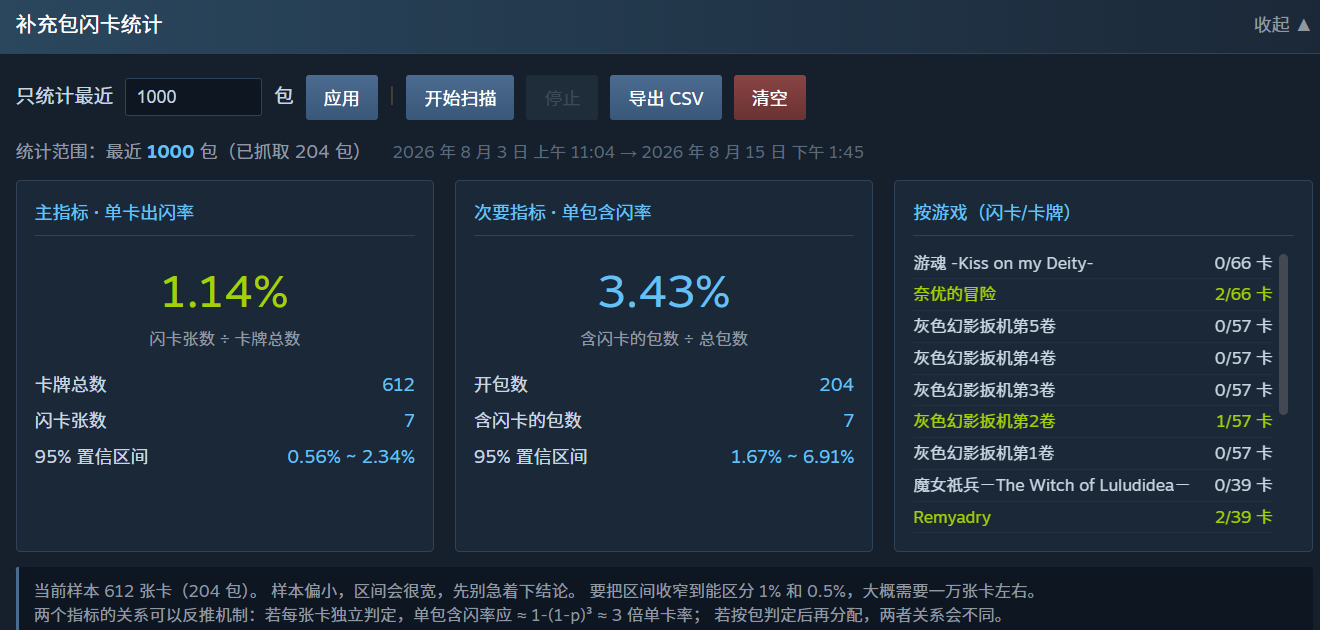
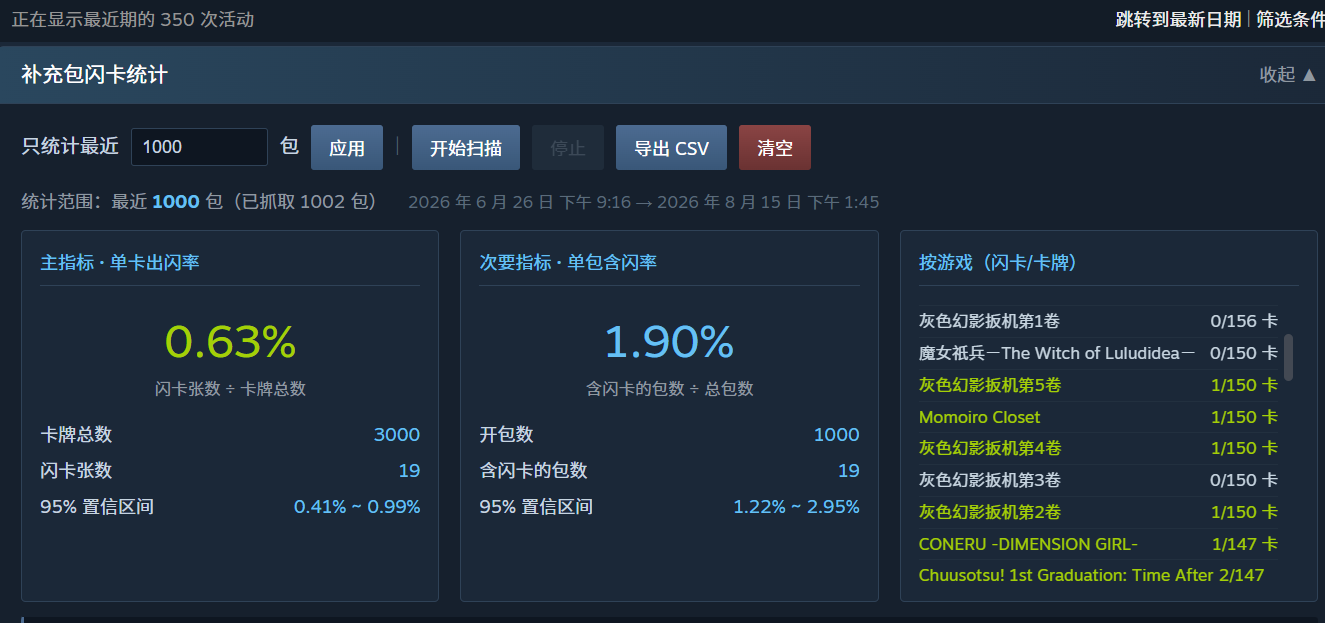
新增挂卡掉落闪卡统计

diff --git a/steam-foil-stats.user.js b/steam-foil-stats.user.js
@@ -1,7 +1,7 @@
 // ==UserScript==
 // @name         Steam 补充包闪卡统计
 // @namespace    https://github.com/Gravity2000
-// @version      1.1.1
+// @version      1.2.0
 // @updateURL    https://raw.githubusercontent.com/Gravity2000/steam-foil-stats/main/steam-foil-stats.user.js
 // @downloadURL  https://raw.githubusercontent.com/Gravity2000/steam-foil-stats/main/steam-foil-stats.user.js
 // @supportURL   https://github.com/Gravity2000/steam-foil-stats/issues
@@ -21,7 +21,9 @@
 
   const STORE_KEY = "foilstats_events_v1";
   const LIMIT_KEY = "foilstats_limit_v1";
-  const EVENT_KEYWORDS = ["已拆开补充包", "Unpacked booster pack", "拆開補充包"];
+  const BOOSTER_KEYWORDS = ["已拆开补充包", "Unpacked booster pack", "拆開補充包"];
+  const FARM_KEYWORDS = ["因游戏时数而获取", "因遊戲時數而獲取",
+                         "Earned", "Got an item drop", "游戏时数", "遊戲時數"];
   const FOIL_MARKERS = ["(闪亮)", "（闪亮）", "(閃亮)", "(Foil)"];
   const PAGE_DELAY_MS = 4000;
   const MAX_PAGES = 400;
@@ -43,7 +45,8 @@
   // ---------------- 工具 ----------------
   const sleep = ms => new Promise(r => setTimeout(r, ms));
   const isFoilName = n => FOIL_MARKERS.some(m => n.includes(m));
-  const isBoosterEvent = d => EVENT_KEYWORDS.some(k => d.includes(k));
+  const isBoosterEvent = d => BOOSTER_KEYWORDS.some(k => d.includes(k));
+  const isFarmEvent = d => !isBoosterEvent(d) && FARM_KEYWORDS.some(k => d.includes(k));
 
   function wilson(successes, total, z = 1.96) {
     if (total === 0) return [0, 0];
@@ -88,11 +91,16 @@
 
   // ---------------- 解析 ----------------
   function parseRow(row) {
-    const desc = row.querySelector(".tradehistory_event_description");
-    if (!desc || !isBoosterEvent(desc.textContent.trim())) return null;
+    const descEl = row.querySelector(".tradehistory_event_description");
+    if (!descEl) return null;
+    const desc = descEl.textContent.trim();
+
+    const booster = isBoosterEvent(desc);
+    const farm = isFarmEvent(desc);
+    if (!booster && !farm) return null;
 
     const groups = row.querySelectorAll(".tradehistory_items");
-    if (groups.length < 2) return null;
+    if (!groups.length) return null;
 
     let boosterName = "";
     let received = [];
@@ -107,18 +115,26 @@
     });
 
     if (!received.length) return null;
+    // 开包必须是「减补充包 + 加卡牌」的成对结构，缺一不算
+    if (booster && !boosterName) return null;
 
     const anyItem = row.querySelector("[id^='history']");
     const id = anyItem
       ? anyItem.id.replace(/^history/, "").replace(/_item\d+$/, "")
-      : `${boosterName}|${received.join(",")}|${Math.random()}`;
+      : `${desc}|${boosterName}|${received.join(",")}|${Math.random()}`;
 
     const dateEl = row.querySelector(".tradehistory_date");
     const time = dateEl ? dateEl.textContent.replace(/\s+/g, " ").trim() : "";
 
+    // 挂卡掉落没有「包」的概念，游戏名从卡牌本身取不到，标记为掉落
+    const game = booster
+      ? boosterName.replace(/\s*补充包\s*$/, "").replace(/\s*Booster Pack\s*$/i, "").trim()
+      : "";
+
     return {
       id, time, ts: parseTime(time),
-      game: boosterName.replace(/\s*补充包\s*$/, "").replace(/\s*Booster Pack\s*$/i, "").trim(),
+      kind: booster ? "booster" : "farm",
+      game,
       cards: received,
       foils: received.filter(isFoilName)
     };
@@ -276,24 +292,57 @@
   };
 
   // ---------------- 渲染 ----------------
+  // limit 只作用于补充包（因为「最近 N 包」按包计数）；
+  // 挂卡掉落按同一时间窗口截取，保证两个统计的时间范围一致，可比。
+  function splitScope(map, limit) {
+    const all = Object.values(map).sort((a, b) => (b.ts || 0) - (a.ts || 0));
+    const boosters = all.filter(e => e.kind !== "farm");
+    const picked = limit > 0 ? boosters.slice(0, limit) : boosters;
+    const cutoff = picked.length ? (picked[picked.length - 1].ts || 0) : 0;
+    const farms = limit > 0
+      ? all.filter(e => e.kind === "farm" && (e.ts || 0) >= cutoff)
+      : all.filter(e => e.kind === "farm");
+    return { boosters: picked, farms, totalBoosters: boosters.length,
+             totalFarms: all.length - boosters.length };
+  }
+
+  function tally(list) {
+    const cards = list.reduce((s, e) => s + e.cards.length, 0);
+    const foils = list.reduce((s, e) => s + e.foils.length, 0);
+    const [lo, hi] = wilson(foils, cards);
+    return { n: list.length, cards, foils, lo, hi,
+             rate: cards ? foils / cards * 100 : 0 };
+  }
+
+  const pct = v => (v * 100).toFixed(2) + "%";
+  const ci = t => t.cards ? pct(t.lo) + " ~ " + pct(t.hi) : "—";
+
   function render() {
     const map = loadEvents();
     const limit = loadLimit();
-    const total = Object.keys(map).length;
-    const evts = recentEvents(map, limit);
+    const { boosters, farms, totalBoosters, totalFarms } = splitScope(map, limit);
 
-    const packs = evts.length;
-    const cards = evts.reduce((s, e) => s + e.cards.length, 0);
-    const foilCards = evts.reduce((s, e) => s + e.foils.length, 0);
-    const foilPacks = evts.filter(e => e.foils.length > 0).length;
+    const B = tally(boosters);
+    const F = tally(farms);
 
-    const [lo, hi] = wilson(foilCards, cards);
-    const rate = cards ? foilCards / cards * 100 : 0;
-    const [plo, phi] = wilson(foilPacks, packs);
-    const packRate = packs ? foilPacks / packs * 100 : 0;
+    // 单包含闪率（仅补充包有意义）
+    const foilPacks = boosters.filter(e => e.foils.length > 0).length;
+    const [plo, phi] = wilson(foilPacks, B.n);
+    const packRate = B.n ? foilPacks / B.n * 100 : 0;
+
+    // 两个渠道的差异是否显著：置信区间不重叠即为显著
+    let cmp = "";
+    if (B.cards >= 100 && F.cards >= 100) {
+      const overlap = !(B.hi < F.lo || F.hi < B.lo);
+      cmp = overlap
+        ? `两者置信区间重叠，<b>目前看不出显著差异</b>，数据支持「两个渠道掉率相同」。`
+        : `两者置信区间不重叠，<b>差异显著</b> —— 补充包与挂卡的闪卡掉率可能不是同一个数。`;
+    } else {
+      cmp = "两边样本都超过 100 张卡之后，这里会给出差异是否显著的判断。";
+    }
 
     const byGame = {};
-    evts.forEach(e => {
+    boosters.forEach(e => {
       const g = byGame[e.game] || (byGame[e.game] = { n: 0, f: 0 });
       g.n += e.cards.length;
       g.f += e.foils.length;
@@ -302,47 +351,57 @@
       .map(([g, v]) => `<div class="${v.f ? "fs-hit" : ""}">
         <span>${g || "(未知)"}</span><span>${v.f}/${v.n} 卡</span></div>`).join("");
 
-    const newest = packs ? evts[0].time : "";
-    const oldest = packs ? evts[packs - 1].time : "";
+    const newest = B.n ? boosters[0].time : "";
+    const oldest = B.n ? boosters[B.n - 1].time : "";
 
     $("#fs-result").innerHTML = `
       <div class="fs-scope">
         统计范围：${limit > 0
-          ? `最近 <b>${limit}</b> 包（已抓取 ${total} 包）`
-          : `<b>全部</b> ${total} 包`}
-        ${packs ? `<span class="fs-range">　${oldest} → ${newest}</span>` : ""}
+          ? `最近 <b>${limit}</b> 包（已抓取 ${totalBoosters} 包 / ${totalFarms} 条挂卡掉落）`
+          : `<b>全部</b> ${totalBoosters} 包 / ${totalFarms} 条挂卡掉落`}
+        ${B.n ? `<span class="fs-range">　${oldest} → ${newest}</span>` : ""}
       </div>
       <div class="fs-grid">
         <div class="fs-card">
-          <h4>主指标 · 单卡出闪率</h4>
-          <div class="fs-big">${cards ? rate.toFixed(2) + "%" : "—"}</div>
+          <h4>补充包 · 单卡出闪率</h4>
+          <div class="fs-big">${B.cards ? B.rate.toFixed(2) + "%" : "—"}</div>
           <div class="fs-sub">闪卡张数 ÷ 卡牌总数</div>
-          <div class="fs-stat"><span>卡牌总数</span><b>${cards}</b></div>
-          <div class="fs-stat"><span>闪卡张数</span><b>${foilCards}</b></div>
-          <div class="fs-stat"><span>95% 置信区间</span>
-            <b>${cards ? (lo*100).toFixed(2) + "% ~ " + (hi*100).toFixed(2) + "%" : "—"}</b></div>
+          <div class="fs-stat"><span>开包数</span><b>${B.n}</b></div>
+          <div class="fs-stat"><span>卡牌总数</span><b>${B.cards}</b></div>
+          <div class="fs-stat"><span>闪卡张数</span><b>${B.foils}</b></div>
+          <div class="fs-stat"><span>95% 置信区间</span><b>${ci(B)}</b></div>
         </div>
         <div class="fs-card">
-          <h4>次要指标 · 单包含闪率</h4>
-          <div class="fs-big" style="color:#66c0f4">${packs ? packRate.toFixed(2) + "%" : "—"}</div>
+          <h4>挂卡掉落 · 单卡出闪率</h4>
+          <div class="fs-big" style="color:#f4a460">${F.cards ? F.rate.toFixed(2) + "%" : "—"}</div>
+          <div class="fs-sub">闪卡张数 ÷ 卡牌总数</div>
+          <div class="fs-stat"><span>掉落记录数</span><b>${F.n}</b></div>
+          <div class="fs-stat"><span>卡牌总数</span><b>${F.cards}</b></div>
+          <div class="fs-stat"><span>闪卡张数</span><b>${F.foils}</b></div>
+          <div class="fs-stat"><span>95% 置信区间</span><b>${ci(F)}</b></div>
+        </div>
+        <div class="fs-card">
+          <h4>补充包 · 单包含闪率</h4>
+          <div class="fs-big" style="color:#66c0f4">${B.n ? packRate.toFixed(2) + "%" : "—"}</div>
           <div class="fs-sub">含闪卡的包数 ÷ 总包数</div>
-          <div class="fs-stat"><span>开包数</span><b>${packs}</b></div>
           <div class="fs-stat"><span>含闪卡的包数</span><b>${foilPacks}</b></div>
           <div class="fs-stat"><span>95% 置信区间</span>
-            <b>${packs ? (plo*100).toFixed(2) + "% ~ " + (phi*100).toFixed(2) + "%" : "—"}</b></div>
+            <b>${B.n ? pct(plo) + " ~ " + pct(phi) : "—"}</b></div>
         </div>
         ${gameRows ? `<div class="fs-card">
-          <h4>按游戏（闪卡/卡牌）</h4>
+          <h4>补充包按游戏（闪卡/卡牌）</h4>
           <div class="fs-games">${gameRows}</div>
         </div>` : ""}
       </div>
-      ${cards ? `<div class="fs-note">
-        当前样本 ${cards} 张卡（${packs} 包）。
-        ${cards < 1500 ? "样本偏小，区间会很宽，先别急着下结论。"
-                       : "样本尚可，可以开始参考。"}
-        要把区间收窄到能区分 1% 和 0.5%，大概需要一万张卡左右。<br>
-        两个指标的关系可以反推机制：若每张卡独立判定，单包含闪率应 ≈ 1-(1-p)³ ≈ 3 倍单卡率；
-        若按包判定后再分配，两者关系会不同。
+      ${(B.cards || F.cards) ? `<div class="fs-note">
+        <b style="color:#66c0f4">两个渠道对比：</b>${cmp}<br><br>
+        当前样本：补充包 ${B.cards} 张卡（${B.n} 包），挂卡 ${F.cards} 张卡。
+        ${(B.cards < 1500) ? "补充包样本偏小，区间会很宽，先别急着下结论。" : ""}
+        要把区间收窄到能区分 1% 和 0.5%，大概需要一万张卡。<br><br>
+        <b style="color:#66c0f4">注意：</b>挂卡掉落的记录会把同一时段的多次掉落合并成一条
+        （一条里可能有 1~2 张卡），所以分母按<b>卡牌张数</b>算，不是记录条数。<br>
+        补充包的单卡率与单包率的关系可反推机制：若每张卡独立判定，
+        单包含闪率应 ≈ 1-(1-p)³ ≈ 3 倍单卡率。
       </div>` : ""}`;
   }
 
@@ -366,7 +425,10 @@
     try {
       [...document.querySelectorAll(".tradehistoryrow")]
         .map(parseRow).filter(Boolean)
-        .forEach(e => { seen++; if (!map[e.id]) { map[e.id] = e; added++; } });
+        .forEach(e => {
+          if (e.kind !== "farm") seen++;          // 上限只按补充包计数
+          if (!map[e.id]) { map[e.id] = e; added++; }
+        });
 
       while (!abort && pages < MAX_PAGES && !(limit > 0 && seen >= limit)) {
         let data;
@@ -389,15 +451,16 @@
           continue;
         }
 
-        let newInPage = 0;
+        let newInPage = 0, boostersInPage = 0;
         rows.forEach(e => {
-          seen++;
+          if (e.kind !== "farm") { seen++; boostersInPage++; }
           if (!map[e.id]) { map[e.id] = e; added++; newInPage++; }
         });
 
         pages++;
-        log(`第 ${pages} 页：开包记录 ${rows.length} 条，新增 ${newInPage}`
-            + (limit > 0 ? `（累计 ${seen}/${limit}）` : ""));
+        log(`第 ${pages} 页：开包 ${boostersInPage} 条 / 挂卡 ${rows.length - boostersInPage} 条，`
+            + `新增 ${newInPage}`
+            + (limit > 0 ? `（累计 ${seen}/${limit} 包）` : ""));
 
         if (limit > 0 && seen >= limit) {
           log(`已达上限 ${limit} 包，停止翻页`);
@@ -406,8 +469,7 @@
         }
 
         dupStreak = newInPage === 0 ? dupStreak + 1 : 0;
-        // 设了上限但还没抓够时，重复数据只说明这段历史已存过，应继续往更早翻
-        if (dupStreak >= 3 && before > 0 && !(limit > 0 && seen < limit)) {
+        if (dupStreak >= 3 && before > 0) {
           log("连续 3 页无新数据，判定已追上历史进度");
           break;
         }
@@ -459,13 +521,16 @@
   };
 
   $("#fs-export").onclick = () => {
-    const evts = recentEvents(loadEvents(), loadLimit());
+    const { boosters, farms } = splitScope(loadEvents(), loadLimit());
+    const evts = boosters.concat(farms).sort((a, b) => (b.ts || 0) - (a.ts || 0));
     if (!evts.length) { alert("还没有数据"); return; }
     const esc = s => `"${String(s).replace(/"/g, '""')}"`;
-    const csv = ["时间,游戏,卡牌,是否含闪卡,闪卡名称"]
+    const csv = ["时间,来源,游戏,卡牌数,卡牌,闪卡数,闪卡名称"]
       .concat(evts.map(e => [
-        esc(e.time), esc(e.game), esc(e.cards.join(" | ")),
-        e.foils.length ? "是" : "否", esc(e.foils.join(" | "))
+        esc(e.time),
+        e.kind === "farm" ? "挂卡掉落" : "补充包",
+        esc(e.game), e.cards.length, esc(e.cards.join(" | ")),
+        e.foils.length, esc(e.foils.join(" | "))
       ].join(",")))
       .join("\n");
     const url = URL.createObjectURL(new Blob(["\ufeff" + csv], { type: "text/csv" }));
